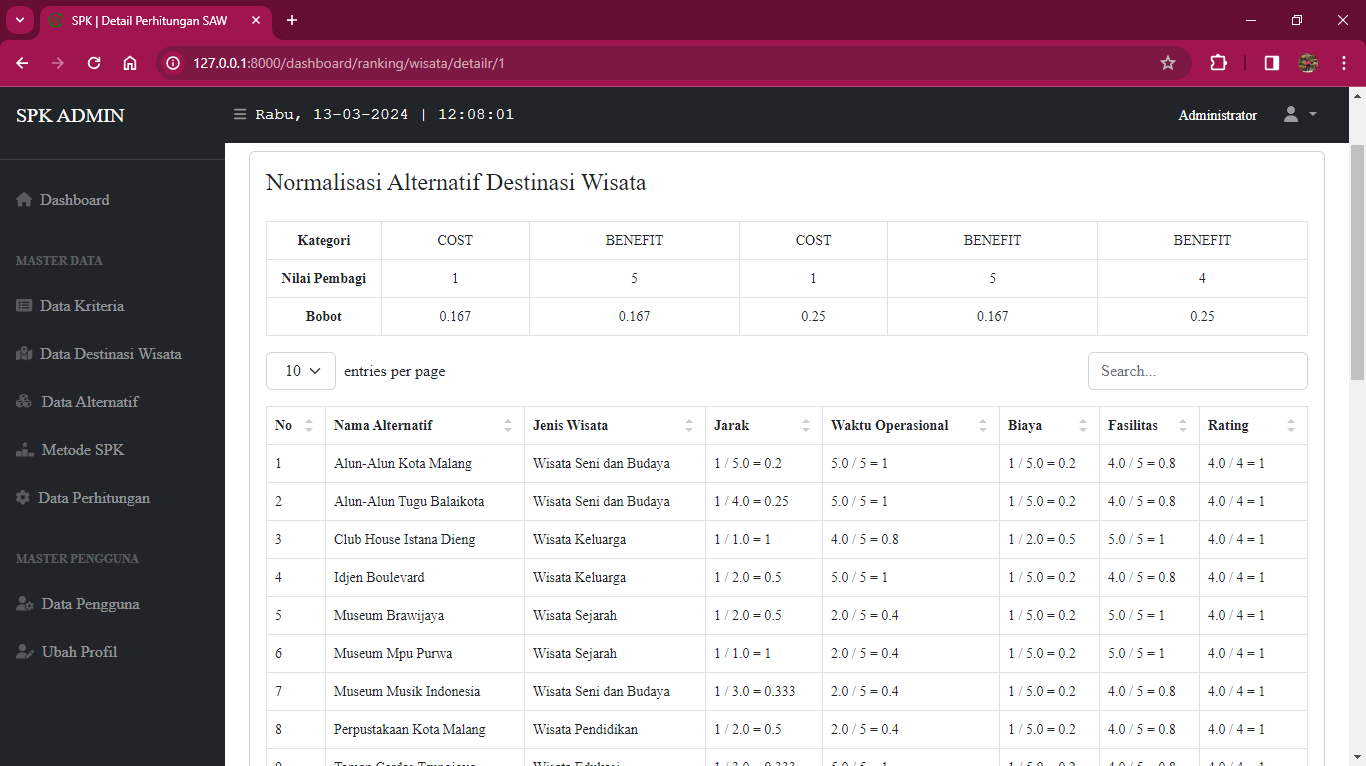
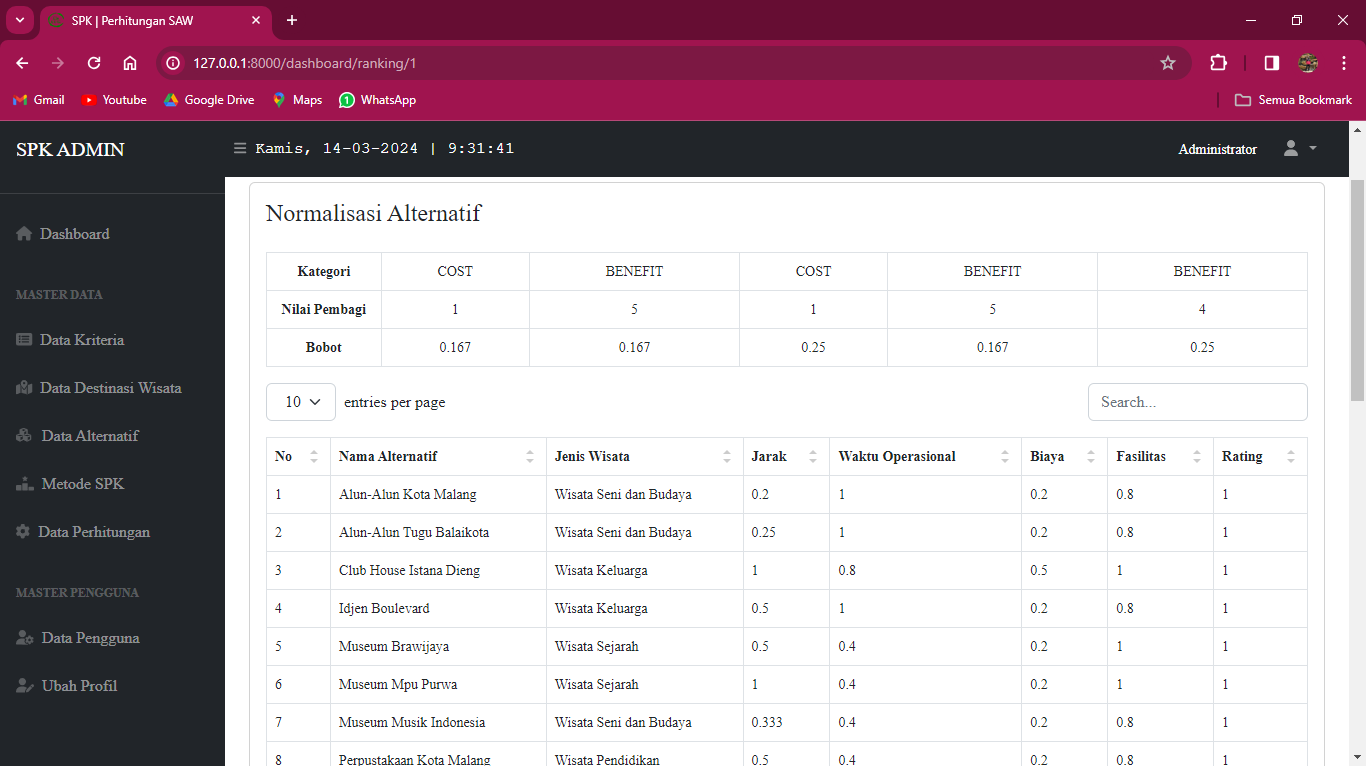
spk-revisi

diff --git a/resources/views/pages/admin/rank/detail.blade.php b/resources/views/pages/admin/rank/detail.blade.php
@@ -32,7 +32,7 @@
         <div class="card-body table-responsive">
             <div class="d-sm-flex align-items-center">
                 <div class="mb-4">
-                    <h4 class="mb-0 text-gray-800">Normalisasi Alternatif Destinasi Wisata</h4>
+                    <h4 class="mb-0 text-gray-800">Normalisasi Alternatif</h4>
                 </div>
             </div>
             <table class="table table-bordered table-condensed table-responsive">
@@ -60,7 +60,7 @@
                 </tbody>
             </table>
             <table id="datatablesSimple" class="table table-bordered table-responsive">
-                <thead class="table-primary align-middle text-center">
+                <thead class="bg-primary align-middle text-center text-white">
                     <tr>
                         <th scope="col" class="text-center">No</th>
                         <th scope="col" class="text-center">Nama Alternatif</th>
@@ -70,7 +70,7 @@
                         @endforeach
                     </tr>
                 </thead>
-                <tbody class="align-middle">
+                <tbody class="align-middle text-center">
                     @if (!empty($normalizations))
                     @foreach ($normalizations as $normalisasi)
                     <tr>
@@ -103,11 +103,11 @@
         <div class="card-body">
             <div class="d-sm-flex align-items-center">
                 <div class="mb-4">
-                    <h4 class="mb-0 text-gray-800">Ranking Destinasi Wisata</h4>
+                    <h4 class="mb-0 text-gray-800">Ranking</h4>
                 </div>
             </div>
             <table id="datatablesSimple2" class="table table-bordered table-responsive">
-                <thead class="table-primary">
+                <thead class="bg-primary align-middle text-center text-white">
                     <tr>
                         <th scope="col">Nama Alternatif</th>
                         <th scope="col">Jenis Wisata</th>
@@ -120,7 +120,7 @@
                         <th scope="col" class="text-center">Ranking</th>
                     </tr>
                 </thead>
-                <tbody>
+                <tbody class="text-center">
                     @if (!empty($ranks))
                     @php($rankResult = [])
                     @php($hasilKali = [])

diff --git a/resources/views/pages/admin/rank/detailr.blade.php b/resources/views/pages/admin/rank/detailr.blade.php
@@ -19,7 +19,7 @@
         <div class="card-body table-responsive">
             <div class="d-sm-flex align-items-center">
                 <div class="mb-4">
-                    <h4 class="mb-0 text-gray-800">Normalisasi Alternatif Destinasi Wisata</h4>
+                    <h4 class="mb-0 text-gray-800">Normalisasi Alternatif</h4>
                 </div>
             </div>
             <table class="table table-bordered table-condensed table-responsive">
@@ -47,7 +47,7 @@
                 </tbody>
             </table>
             <table id="datatablesSimple2" class="table table-bordered">
-                <thead class="table-primary align-middle text-center">
+                <thead class="bg-primary align-middle text-center text-white">
                     <tr>
                         <th scope="col" class="text-center">No</th>
                         <th scope="col" class="text-center">Nama Alternatif</th>
@@ -57,7 +57,7 @@
                         @endforeach
                     </tr>
                 </thead>
-                <tbody class="align-middle">
+                <tbody class="align-middle text-center">
                     @if (!empty($normalizations))
                     @foreach ($normalizations as $normalisasi)
                     <tr>
@@ -99,9 +99,9 @@
         <div class="card-body">
             <table id="datatablesSimple" class="table table-bordered table-responsive">
                 <div class="mb-4">
-                    <h4 class="mb-0 text-gray-800">Ranking Destinasi Wisata</h4>
+                    <h4 class="mb-0 text-gray-800">Ranking</h4>
                 </div>
-                <thead class="table-primary">
+                <thead class="bg-primary align-middle text-center text-white">
                     <tr>
                         <th scope="col">Nama Alternatif</th>
                         <th scope="col">Jenis Wisata</th>
@@ -114,7 +114,7 @@
                         <th scope="col" class="text-center">Ranking</th>
                     </tr>
                 </thead>
-                <tbody>
+                <tbody class="text-center">
                     @if (!empty($ranking))
                     @php($rankResult = [])
                     @php($hasilKali = [])

diff --git a/database/seeders/DatabaseSeeder.php b/database/seeders/DatabaseSeeder.php
@@ -19,18 +19,18 @@ class DatabaseSeeder extends Seeder
     public function run()
     {
         User::create([
-            'name'     => 'Admin',
-            'username' => 'admin',
+            'name'     => 'Administrator',
+            'username' => 'admin1',
             'email'    => 'admin@gmail.com',
             'password' => bcrypt('admin123'),
             'level'    => 'ADMIN'
         ]);
 
         User::create([
-            'name'     => 'User',
-            'username' => 'user',
+            'name'     => 'Wisatawan 1',
+            'username' => 'wisatawan1',
             'email'    => 'user@gmail.com',
-            'password' => bcrypt('user1234'),
+            'password' => bcrypt('wisatawan1'),
             'level'    => 'USER'
         ]);
     }

diff --git a/database/factories/UserFactory.php b/database/factories/UserFactory.php
@@ -22,7 +22,7 @@ class UserFactory extends Factory
             'email'             => $this->faker->unique()->safeEmail(),
             'username'          => $this->faker->userName(),
             'email_verified_at' => now(),
-            'password'          => bcrypt('kelas'), // password
+            'password'          => bcrypt('password'), // password
             'remember_token'    => Str::random(10),
         ];
     }
